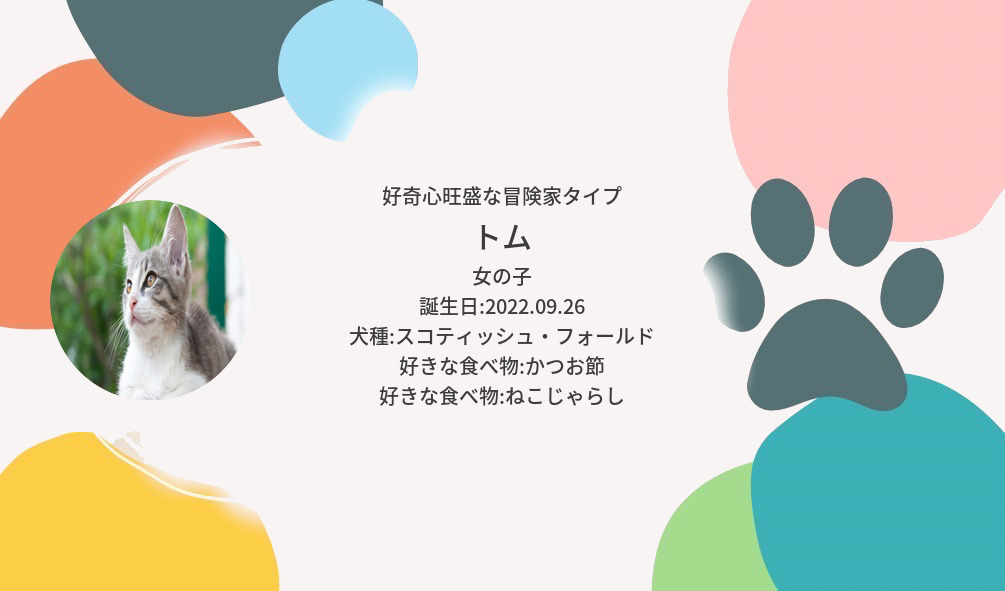
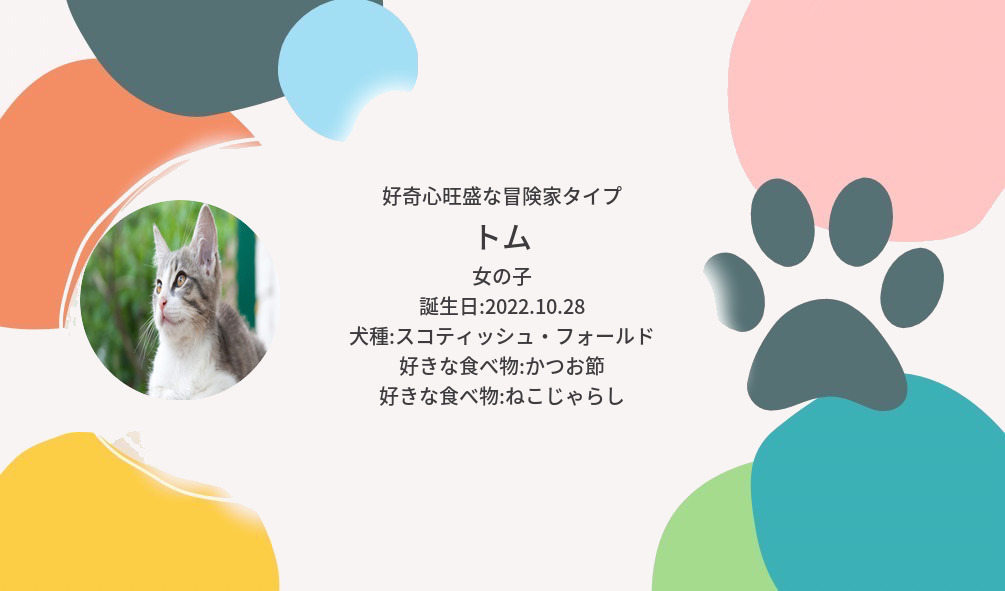
プロフィールカードの写真の位置修正、フォームの修正等各種修正を行った

Changed region(s): [[0.0308, 0.335, 0.2776, 0.6701], [0.5244, 0.4873, 0.5552, 0.5482]]

diff --git a/app/javascript/controllers/index.js b/app/javascript/controllers/index.js
@@ -6,6 +6,3 @@ import { application } from "./application"
 
 import PreviewImageController from "./preview_image_controller"
 application.register("preview-image", PreviewImageController)
-
-import TweetController from "./tweet_controller"
-application.register("tweet", TweetController)

diff --git a/app/models/profile_card.rb b/app/models/profile_card.rb
@@ -181,7 +181,7 @@ class ProfileCard < ApplicationRecord
 
     img3 = profile_face_image.composite(img2, 0, 0, CopyAlphaCompositeOp)
 
-    base_img.composite!(img3 , 50, 200, OverCompositeOp)
+    base_img.composite!(img3 , 80, 200, OverCompositeOp)
 
     base_img.write("app/assets/images/profile_card_data_a.jpg") # save to file
   end
